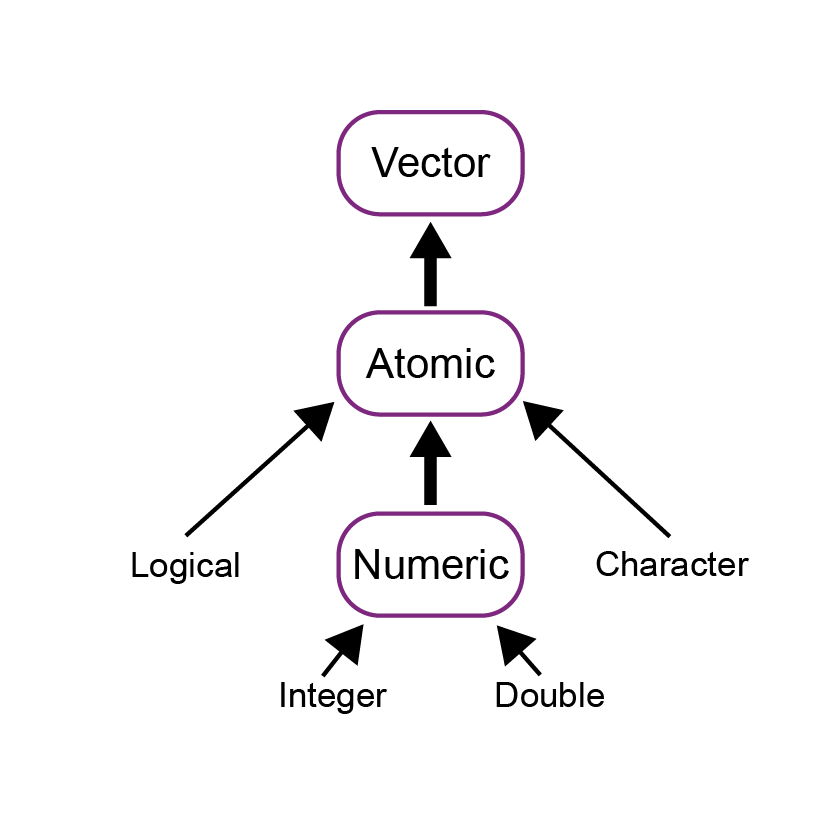
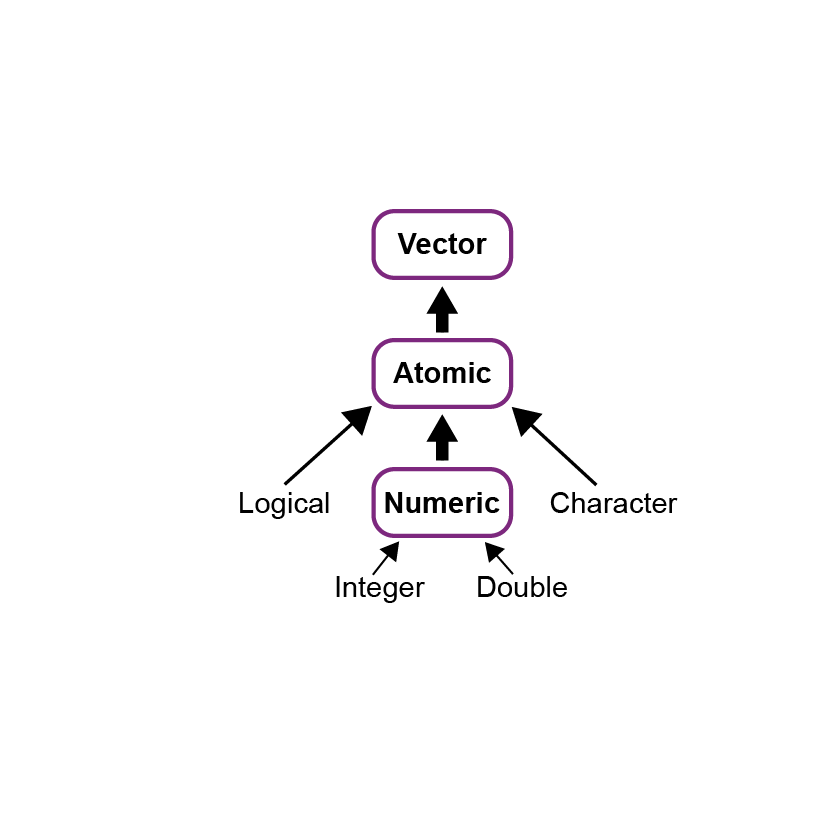
Add environments.png

diff --git a/_site/presentations/Foundations.html b/_site/presentations/Foundations.html
@@ -355,10 +355,10 @@ Ashlyn Barry
 </a>
 </div>
 </div>
-<div class="quarto-post image-right" data-index="5" data-listing-date-sort="1789534800000" data-listing-file-modified-sort="1780604752384" data-listing-date-modified-sort="NaN" data-listing-reading-time-sort="11" data-listing-word-count-sort="2094">
+<div class="quarto-post image-right" data-index="5" data-listing-date-sort="1789534800000" data-listing-file-modified-sort="1781231019939" data-listing-date-modified-sort="NaN" data-listing-reading-time-sort="11" data-listing-word-count-sort="2094">
 <div class="thumbnail"><a href="../presentations/AdvancedR/Foundations/environments.html" class="no-external">
 
-<img loading="lazy" src="../images/thumbnails/image-template.png" class="thumbnail-image" style="height: 200px;">
+<img loading="lazy" src="../images/thumbnails/environments.png" class="thumbnail-image" style="height: 200px;">
 
 </a></div>
 <div class="body">